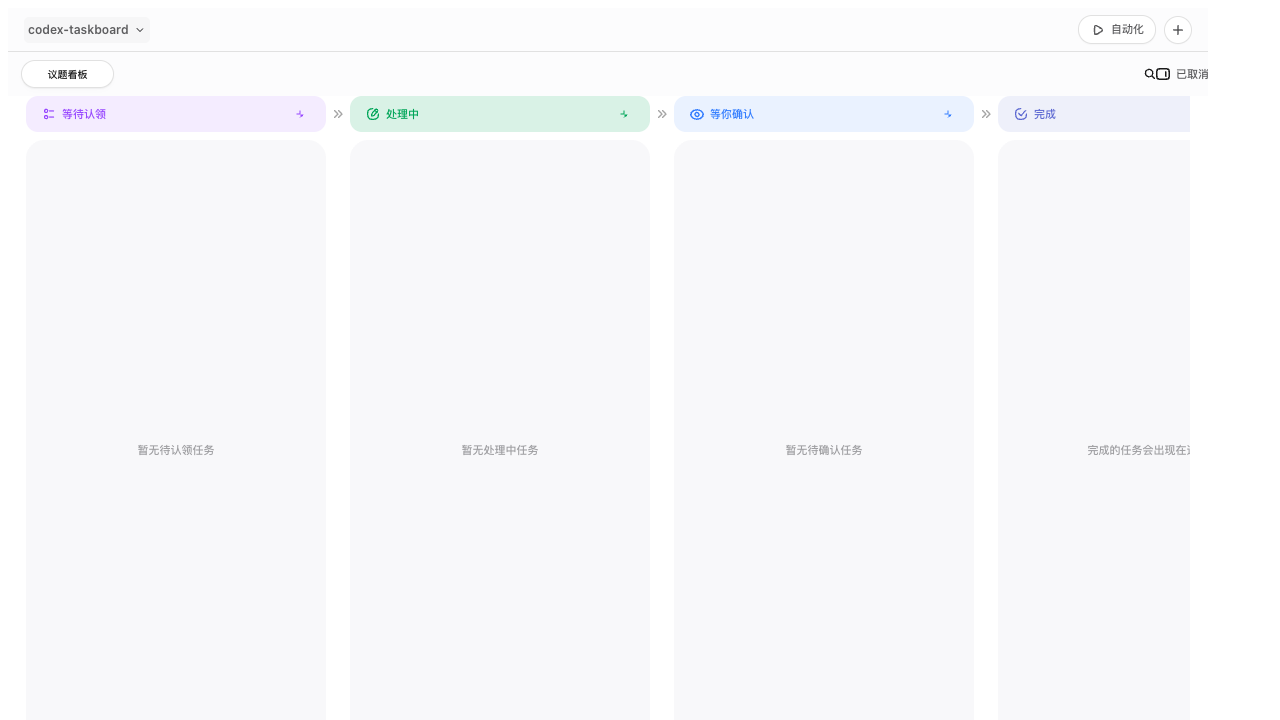
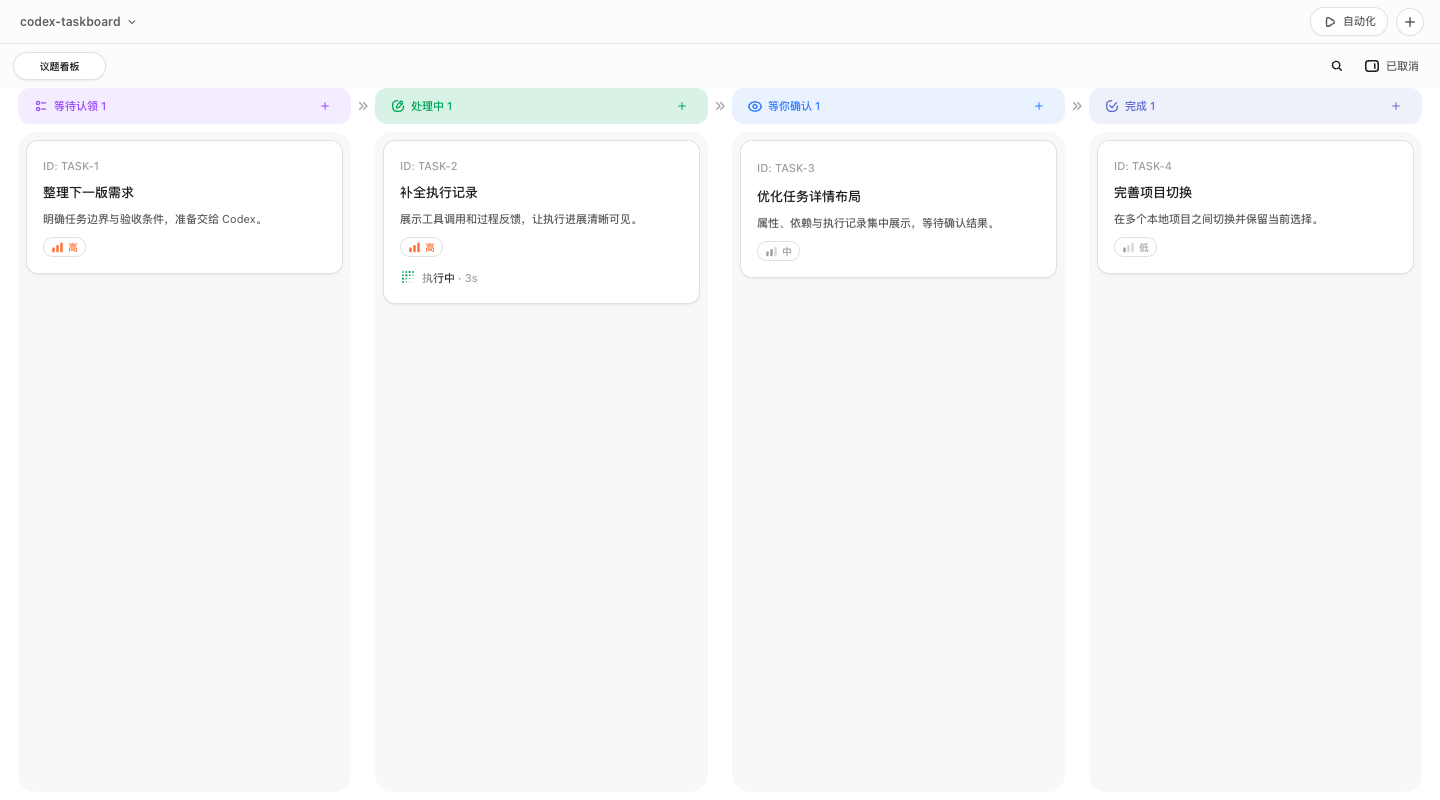
fix: preserve execution history and sync Taskboard sessions

diff --git a/web/src/components/TaskDetail.tsx b/web/src/components/TaskDetail.tsx
@@ -130,11 +130,12 @@ export function TaskDetail({
             </div>
             <section className="activity-section">
               <div className="activity-heading"><h2>执行记录</h2><span>{current.runState ? RUN_STATE_LABELS[current.runState] : "未运行"}</span></div>
+              {current.activityError && <p className="activity-empty">{current.activityError}</p>}
               <div className="activity-stream">
                 {current.lastError && <div className="activity-entry"><span className="activity-rail-icon"><LinearIcon name="alert" /></span><p><strong>执行错误</strong> {current.lastError}</p><time>{relativeTime(current.updatedAt)}</time></div>}
-                {current.lastMessage && <div className="activity-entry"><span className="activity-rail-icon">✦</span><p><strong>Codex</strong> {current.lastMessage}</p><time>{relativeTime(current.updatedAt)}</time></div>}
-                {(current.activity ?? []).slice(-12).map((item, index) => <div className="activity-entry" key={item.id ?? `${item.createdAt}-${index}`}><span className="activity-rail-icon">{item.kind === "command" ? "$" : item.kind === "file" ? "↗" : "·"}</span><p><strong>{item.kind === "command" ? "命令" : item.kind === "file" ? "文件变化" : item.kind === "error" ? "错误" : "消息"}</strong> {item.message ?? item.summary ?? item.detail ?? ""}</p><time>{relativeTime(item.createdAt)}</time></div>)}
-                {current.runs?.map((run, index) => <div className="activity-entry" key={run.id ?? `run-${index}`}><span className="activity-rail-icon"><LinearIcon name="terminal" /></span><p><strong>TaskRun</strong> {run.summary ?? run.phase ?? run.state ?? "运行记录"}</p><time>{relativeTime(run.updatedAt ?? run.createdAt)}</time></div>)}
+                {current.lastMessage && !(current.activity ?? []).some(item => item.kind === "agentMessage" && item.message === current.lastMessage) && <div className="activity-entry"><span className="activity-rail-icon">✦</span><p><strong>Codex</strong> {current.lastMessage}</p><time>{relativeTime(current.updatedAt)}</time></div>}
+                {(current.activity ?? []).map((item, index) => <div className="activity-entry" key={item.id ?? `${item.createdAt}-${index}`}><span className="activity-rail-icon">{item.kind === "agentMessage" ? "✦" : "↗"}</span><div className="activity-content"><p><strong>{item.kind === "agentMessage" ? "Codex" : item.kind === "commandExecution" ? "命令" : item.kind === "fileChange" ? "文件变化" : "工具调用"}</strong>{item.status === "running" && <small> · 进行中</small>}</p><p>{item.message ?? item.summary ?? item.detail ?? ""}</p>{item.data && item.kind !== "agentMessage" && <details><summary>查看调用详情</summary><pre>{JSON.stringify(item.data, null, 2)}</pre></details>}</div><time>{relativeTime(item.createdAt)}</time></div>)}
+                {current.runs?.map((run, index) => <div className="activity-entry" key={run.id ?? `run-${index}`}><span className="activity-rail-icon"><LinearIcon name="terminal" /></span><p><strong>TaskRun</strong> {run.lastOutputSummary ?? run.summary ?? run.phase ?? run.runState ?? run.state ?? "运行记录"}</p><time>{relativeTime(run.updatedAt ?? run.createdAt)}</time></div>)}
                 {current.lastError == null && current.lastMessage == null && (current.activity ?? []).length === 0 && (!current.runs || current.runs.length === 0) && <p className="activity-empty">Codex 开始工作后，最新进展会显示在这里。</p>}
               </div>
               {pendingInteractions.length > 0 && <div className="interaction-list">{pendingInteractions.map((interaction) => <InteractionRow key={interaction.id} interaction={interaction} onResolve={onResolveInteraction} />)}</div>}

diff --git a/web/src/App.tsx b/web/src/App.tsx
@@ -226,6 +226,8 @@ function EmbeddedTaskboard() {
   const [dropTarget, setDropTarget] = useState<TaskStatus | null>(null);
   const [notices, setNotices] = useState<Notice[]>([]);
   const noticeId = useRef(0);
+  const selectedTaskIdRef = useRef(selectedTaskId);
+  selectedTaskIdRef.current = selectedTaskId;
   const dragRegionRef = useRef<HTMLDivElement>(null);
   // Depend on project values, not the once-per-second host envelope identity.
   const projectContextKey = JSON.stringify({ projects: hostContext?.projects ?? [], projectId: hostContext?.projectId ?? null, workspacePath: hostContext?.workspacePath ?? null });
@@ -323,7 +325,10 @@ function EmbeddedTaskboard() {
     try {
       const loaded = await listTasks(projectId, true);
       setTasks(loaded);
-      setDetail((current) => current ? loaded.find((task) => task.id === current.id) ?? current : null);
+      if (selectedTaskIdRef.current) {
+        const next = await getTask(selectedTaskIdRef.current);
+        setDetail(current => current?.id === next.id ? next : current);
+      }
     } catch (error) {
       notify(compactError(error), "error");
     } finally {
@@ -338,11 +343,16 @@ function EmbeddedTaskboard() {
   }, [refreshTasks, selectedProjectId]);
 
   useEffect(() => {
+    let timer: ReturnType<typeof setTimeout> | undefined;
     const close = createEventStream((event: EventEnvelope) => {
+      if (event.type === "thread.available") postEmbeddedHostMessage({ type: "taskboard:thread-available", payload: event.payload });
       if (event.projectId && selectedProjectId && event.projectId !== selectedProjectId) return;
-      void refreshTasks(selectedProjectId);
+      if (!timer) timer = setTimeout(() => {
+        timer = undefined;
+        void refreshTasks(selectedProjectId);
+      }, 200);
     });
-    return close;
+    return () => { close(); clearTimeout(timer); };
   }, [refreshTasks, selectedProjectId]);
 
   const updateTaskInState = useCallback((next: Task) => {
@@ -464,7 +474,7 @@ function EmbeddedTaskboard() {
     });
   }, [includeCanceled, search, tasks]);
   const grouped = useMemo(() => Object.fromEntries(COLUMN_ORDER.map((status) => [status, visibleTasks.filter((task) => task.status === status)])) as Record<TaskStatus, Task[]>, [visibleTasks]);
-  const appShellStyle = { "--codex-titlebar-left-inset": `${hostContext?.titlebarLeftInset ?? 0}px`, "--main-column-count": 4 } as CSSProperties;
+  const appShellStyle = { "--codex-titlebar-left-inset": `${hostContext?.titlebarLeftInset ?? 0}px`, "--main-column-count": 4, "--main-board-min-width": "1272px", "--main-board-max-width": "1672px" } as CSSProperties;
 
   return (
     <div className="app-shell embedded" style={appShellStyle}>

diff --git a/web/src/styles.css b/web/src/styles.css
@@ -12056,3 +12056,19 @@ kbd {
 .composer-properties .task-property-trigger { width: 100%; }
 .taskboard-popover .dependency-picker-list { max-height: 220px; }
 .other-tasks-panel.is-open { visibility: visible; pointer-events: auto; }
+
+/* Execution text can grow without squeezing the timestamp. */
+.app-shell .activity-entry { display: grid; grid-template-columns: 32px minmax(0, 1fr) max-content; align-items: start; gap: 10px; padding: 10px 0; }
+.app-shell .activity-entry time { white-space: nowrap; font-size: 11px; line-height: 24px; min-width: 62px; text-align: right; }
+.app-shell .activity-entry time::before { content: none; }
+.activity-content { min-width: 0; }
+.activity-content p { white-space: pre-wrap; }
+.activity-content details { margin-top: 6px; color: var(--text-secondary); font-size: 12px; }
+.activity-content summary { cursor: pointer; }
+.activity-content pre { max-height: 360px; overflow: auto; white-space: pre-wrap; overflow-wrap: anywhere; padding: 10px; background: var(--surface-muted); border-radius: 6px; }
+.app-shell .other-tasks-panel { background: var(--surface); border: 1px solid var(--border); border-radius: 12px; box-shadow: 0 8px 30px #00000012; }
+.app-shell .other-tasks-header { border: 0; padding: 16px; }
+.app-shell .other-tasks-list { display: flex; flex-direction: column; gap: 4px; padding: 0 8px 12px; background: none; }
+.app-shell .other-tasks-list .task-card { min-height: 0; padding: 12px; border: 0; box-shadow: none; background: none; }
+.app-shell .other-tasks-list .task-card:hover { background: var(--surface-muted); }
+.app-shell .other-tasks-list .task-card::before, .app-shell .other-tasks-list .task-card::after { display: none; }

diff --git a/injector/inject.js b/injector/inject.js
@@ -631,6 +631,13 @@
     if (!message || typeof message !== "object" || message.capability !== frameCapability) return;
     if (message.type === "taskboard:frame-awaiting-challenge") { postFrameChallenge(); return; }
     if (!frameChallenge || message.challenge !== frameChallenge) return;
+    if (message.type === "taskboard:thread-available") {
+      const thread = message.payload?.thread;
+      if (thread && typeof thread.id === "string" && typeof thread.cwd === "string") {
+        window.postMessage({ type: "mcp-notification", hostId: "local", method: "thread/started", params: { thread } }, window.location.origin);
+      }
+      return;
+    }
     if (message.type === "taskboard:drag-region") {
       updateDragRegion(message.payload);
       return;

diff --git a/web/src/api.ts b/web/src/api.ts
@@ -125,6 +125,7 @@ function normalizeTask(value: unknown): Task {
     createdAt: String(item.createdAt ?? new Date().toISOString()),
     updatedAt: String(item.updatedAt ?? new Date().toISOString()),
     interactions: Array.isArray(item.interactions) ? item.interactions as Interaction[] : undefined,
+    activityError: typeof item.activityError === "string" ? item.activityError : undefined,
     activity: Array.isArray(item.activity ?? item.runEvents ?? item.events)
       ? (item.activity ?? item.runEvents ?? item.events) as Task["activity"]
       : undefined,

diff --git a/web/src/types.ts b/web/src/types.ts
@@ -105,10 +105,13 @@ export interface Task extends ExecutionOptions {
   updatedAt: string;
   interactions?: Interaction[];
   activity?: ActivityItem[];
+  activityError?: string;
   runs?: TaskRun[];
 }
 
 export interface TaskRun {
+  runState?: string;
+  lastOutputSummary?: string | null;
   id?: string;
   taskId?: string;
   threadId?: string | null;
@@ -122,6 +125,7 @@ export interface TaskRun {
 }
 
 export interface ActivityItem {
+  status?: string;
   id?: string;
   kind: string;
   message?: string;

diff --git a/src/codex_taskboard/scheduler.py b/src/codex_taskboard/scheduler.py
@@ -202,6 +202,8 @@ class Scheduler:
         self._manual_overrides: set[str] = set()
         self._start_lock = asyncio.Lock()
         self._recovered = False
+        self._activity_hydrated: set[str] = set()
+        self._activity_lock = asyncio.Lock()
 
     @property
     def running(self) -> bool:
@@ -535,6 +537,41 @@ class Scheduler:
             if not self.server.running:
                 await self.server.start()
 
+    def _record_item(self, task_id: str, turn_id: str, item: dict[str, Any],
+                     completed: bool, created_at: str | None = None) -> None:
+        kind = item.get("type", "")
+        if kind in {"userMessage", "reasoning"} or not item.get("id"):
+            return
+        message = item.get("text") or item.get("command") or item.get("tool") or item.get("query") or kind
+        self.db.save_activity(task_id, {
+            "id": f"{turn_id}:{item['id']}", "kind": kind,
+            "message": str(message) if kind != "agentMessage" or item.get("text") else "正在回复…",
+            "status": "completed" if completed else "running", "data": item,
+            **({"createdAt": created_at} if created_at else {}),
+        })
+
+    async def hydrate_activity(self, task: dict[str, Any]) -> None:
+        """Read retained history once per process without starting or resuming a turn."""
+        if not task["threadId"] or task["id"] in self._activity_hydrated:
+            return
+        async with self._activity_lock:
+            if task["id"] in self._activity_hydrated:
+                return
+            await self._ensure_server()
+            snapshot = await self.server.read_thread(task["threadId"], include_turns=True)
+            thread = snapshot.get("thread", {})
+            existing = {entry["id"] for entry in self.db.list_activity(task["id"])}
+            for turn in thread.get("turns", []):
+                created_at = task["createdAt"]
+                if isinstance(turn.get("startedAt"), (int, float)):
+                    created_at = datetime.fromtimestamp(turn["startedAt"], timezone.utc).isoformat(timespec="milliseconds")
+                for item in turn.get("items", []):
+                    if f"{turn.get('id', '')}:{item.get('id')}" in existing:
+                        continue
+                    self._record_item(task["id"], turn.get("id", ""), item,
+                                      turn.get("status") != "inProgress", created_at)
+            self._activity_hydrated.add(task["id"])
+
     async def list_models(self) -> list[dict[str, Any]]:
         await self._ensure_server()
         return await self.server.list_models()
@@ -609,15 +646,6 @@ class Scheduler:
                 thread_id = await self.server.start_thread(project["workspacePath"])
                 self.server.register_thread_task(thread_id, task_id)
                 task = await self._set_task(task_id, thread_id=thread_id) or self.db.get_task(task_id)
-                try:
-                    await self.server.set_thread_name(thread_id, f"[{task['identifier']}] {task['title']}")
-                except Exception as exc:
-                    await self.events.publish(
-                        "run.event",
-                        project_id=task["projectId"],
-                        task_id=task_id,
-                        payload={"kind": "warning", "message": f"thread/name/set failed: {exc}"},
-                    )
             else:
                 self.server.register_thread_task(thread_id, task_id)
                 if resuming:
@@ -637,6 +665,17 @@ class Scheduler:
             options = await self.execution_options(task.get("model"), task.get("reasoningEffort"))
             turn_id = await self.server.start_turn(thread_id, prompt, task_id=task_id, **options)
             self._register_turn(task_id, turn_id)
+            try:
+                await self.server.set_thread_name(thread_id, f"[Taskboard]{task['title']}")
+            except Exception as exc:
+                self.db.save_activity(task_id, {"id": f"{turn_id}:title-warning", "kind": "warning",
+                                                "message": f"会话标题同步失败：{exc}"})
+            try:
+                snapshot = await self.server.read_thread(thread_id, include_turns=False)
+                await self.events.publish("thread.available", project_id=task["projectId"], task_id=task_id,
+                                          payload=snapshot)
+            except Exception:
+                pass
             run = self.db.create_run(
                 task_id=task_id,
                 thread_id=thread_id,
@@ -892,6 +931,8 @@ class Scheduler:
             )
             self.kick()
         elif task_id:
+            if method in {"item/started", "item/completed"}:
+                self._record_item(task_id, turn_id or "", params.get("item", {}), method == "item/completed")
             await self.events.publish(
                 "run.event",
                 project_id=project_id,

diff --git a/tests/test_scheduler_contract.py b/tests/test_scheduler_contract.py
@@ -148,6 +148,38 @@ class SchedulerContractTests(unittest.IsolatedAsyncioTestCase):
         self.server.register_thread_task(thread_id, task["id"])
         return self.db.get_task(task["id"])
 
+    async def test_activity_keeps_feedback_and_tools_without_duplicate_completion(self):
+        task = self.running_task(self.project())
+        for method, item in [
+            ("item/started", {"id": "tool-1", "type": "mcpToolCall", "tool": "imagegen", "arguments": {"prompt": "draw a tree"}}),
+            ("item/completed", {"id": "tool-1", "type": "mcpToolCall", "tool": "imagegen", "result": {"text": "done"}}),
+            ("item/completed", {"id": "reply-1", "type": "agentMessage", "text": "图片已生成", "phase": "commentary"}),
+            ("item/completed", {"id": "private-1", "type": "reasoning", "text": "private"}),
+        ]:
+            await self.scheduler._handle_notification(method, {"threadId": "thread-1", "turnId": "turn-1", "item": item})
+        rows = self.db.list_activity(task["id"])
+        self.assertEqual(len(rows), 2)
+        self.assertEqual(rows[0]["status"], "completed")
+        self.assertEqual(rows[0]["data"]["arguments"], {"prompt": "draw a tree"})
+        self.assertEqual(rows[1]["message"], "图片已生成")
+        reopened = Database(self.db.path)
+        try:
+            self.assertEqual(reopened.list_activity(task["id"]), rows)
+        finally:
+            reopened.close()
+
+    async def test_history_read_restores_items_without_executing_turn(self):
+        task = self.running_task(self.project())
+        self.server.read_snapshots["thread-1"] = {"thread": {"turns": [{"id": "old-turn", "status": "completed", "items": [
+            {"id": "old-feedback", "type": "agentMessage", "text": "之前的进展"},
+            {"id": "old-tool", "type": "commandExecution", "command": "pwd"},
+        ]}]}}
+        await self.scheduler.hydrate_activity(task)
+        await self.scheduler.hydrate_activity(task)
+        self.assertEqual(len(self.db.list_activity(task["id"])), 2)
+        self.assertEqual(self.server.turn_calls, [])
+        self.assertEqual(self.server.resume_calls, [])
+
     async def test_completion_review_policy_and_independent_dispatch(self) -> None:
         review_project = self.project("REVIEW", review_required=True)
         task = self.running_task(review_project, title="needs review")
@@ -251,7 +283,9 @@ class SchedulerContractTests(unittest.IsolatedAsyncioTestCase):
         project = self.project("PROMPT", review_required=False)
         initial = self.task(project["id"], "initial")
         initial = self.db.claim_task(initial["id"], initial["version"])
-        await self.scheduler._execute_task(initial["id"], None)
+        with patch.object(self.server, "set_thread_name", new_callable=AsyncMock) as rename:
+            await self.scheduler._execute_task(initial["id"], None)
+            rename.assert_awaited_once_with("thread-new-1", "[Taskboard]initial")
         self.assertEqual(
             self.server.turn_calls[0],
             (

diff --git a/src/codex_taskboard/db.py b/src/codex_taskboard/db.py
@@ -23,7 +23,7 @@ from typing import Any, Iterator
 from .constants import ALL_PRIORITIES, ALL_STATUSES, Priority, TaskStatus
 from .errors import ConflictError, NotFoundError, ValidationError
 
-SCHEMA_VERSION = 3
+SCHEMA_VERSION = 4
 _UNSET = object()
 _KEY_RE = re.compile(r"^[A-Za-z][A-Za-z0-9_-]{0,31}$")
 _KEY_SANITIZE_RE = re.compile(r"[^A-Za-z0-9_-]+")
@@ -201,6 +201,13 @@ class Database:
             self._conn.execute("ALTER TABLE tasks ADD COLUMN reasoning_effort TEXT")
             self._conn.execute("UPDATE schema_meta SET version = 3 WHERE singleton = 1")
             current = 3
+        if current < 4:
+            self._conn.execute("""CREATE TABLE task_activity (
+                task_id TEXT NOT NULL REFERENCES tasks(id) ON DELETE CASCADE,
+                id TEXT NOT NULL, payload TEXT NOT NULL, created_at TEXT NOT NULL,
+                PRIMARY KEY (task_id, id))""")
+            self._conn.execute("UPDATE schema_meta SET version = 4 WHERE singleton = 1")
+            current = 4
         if current != SCHEMA_VERSION:
             raise RuntimeError(f"No migration path from schema {current}")
 
@@ -603,6 +610,27 @@ class Database:
     def get_task(self, task_id: str) -> dict[str, Any]:
         with self._lock:
             return self._task_json_locked(task_id)
+
+    def save_activity(self, task_id: str, item: dict[str, Any]) -> None:
+        with self._lock:
+            existing = self._conn.execute("SELECT payload FROM task_activity WHERE task_id = ? AND id = ?",
+                                          (task_id, item["id"])).fetchone()
+            if existing:
+                previous = json.loads(existing["payload"])
+                item = {**item, "data": {**previous.get("data", {}), **item.get("data", {})}}
+            self._conn.execute(
+                """INSERT INTO task_activity(task_id, id, payload, created_at) VALUES (?, ?, ?, ?)
+                ON CONFLICT(task_id, id) DO UPDATE SET payload = excluded.payload""",
+                (task_id, item["id"], _json(item), item.get("createdAt") or utc_now()),
+            )
+
+    def list_activity(self, task_id: str) -> list[dict[str, Any]]:
+        with self._lock:
+            rows = self._conn.execute(
+                "SELECT payload, created_at FROM task_activity WHERE task_id = ? ORDER BY created_at, rowid",
+                (task_id,),
+            ).fetchall()
+            return [{**json.loads(row["payload"]), "createdAt": row["created_at"]} for row in rows]
 
     def get_task_row(self, task_id: str) -> sqlite3.Row:
         with self._lock:

diff --git a/src/codex_taskboard/app.py b/src/codex_taskboard/app.py
@@ -356,6 +356,11 @@ def create_app(
     @app.get("/api/tasks/{task_id}")
     async def task_detail(task_id: str) -> dict[str, Any]:
         task = db.get_task(task_id)
+        try:
+            await scheduler.hydrate_activity(task)
+        except Exception:
+            task["activityError"] = "暂时无法读取 Codex 历史，以下为本地保存的记录。"
+        task["activity"] = db.list_activity(task_id)
         task["runs"] = db.list_runs(task_id)
         task["interactions"] = db.list_interactions(task_id)
         return task

diff --git a/src/codex_taskboard/app_server.py b/src/codex_taskboard/app_server.py
@@ -173,6 +173,7 @@ class CodexAppServer:
                 stdin=asyncio.subprocess.PIPE,
                 stdout=asyncio.subprocess.PIPE,
                 stderr=asyncio.subprocess.PIPE,
+                limit=16 * 1024 * 1024,
             )
         except (FileNotFoundError, OSError) as exc:
             self.process = None

diff --git a/README.md b/README.md
@@ -16,7 +16,7 @@ Codex Taskboard 是一个运行在 Codex 内部的本地任务看板：整理需
 
 ![四列任务看板](docs/images/project-ui.png)
 
-> 以下图片来自开发阶段的界面截图，展示看板、任务创建和详情布局；示例任务及模型选项不代表运行时数据，可用模型以本机 Codex 返回结果为准。
+> 首图为当前版本重新截取的四列看板，其余图片展示任务创建和详情布局；示例任务及模型选项不代表运行时数据，可用模型以本机 Codex 返回结果为准。
 
 ## 功能亮点
 
